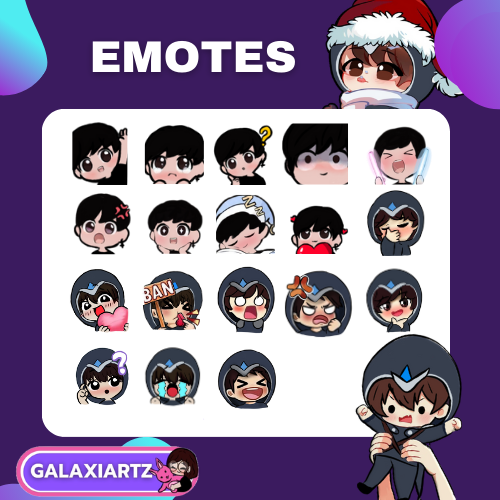
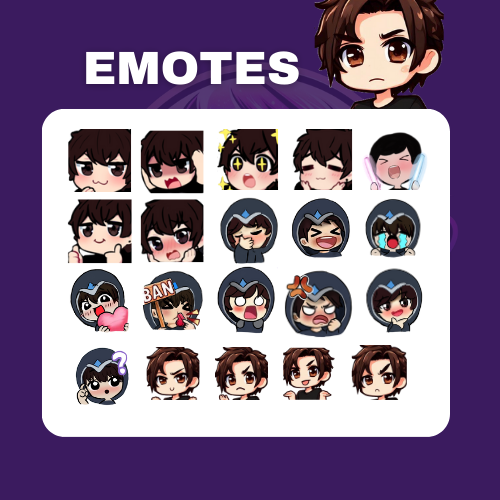
add img

diff --git a/src/componentes/Artes/index.jsx b/src/componentes/Artes/index.jsx
@@ -1,7 +1,7 @@
 import React from 'react';
 import './style.css'
 import iconeImage from '../../assets/icone.png';
-import weskerImage from '../../assets/wesker.png';
+import bagdeImage from '../../assets/bagde.png';
 import kreewhaitImage from '../../assets/kreewhait.png';
 
 export default function Artes(props) {
@@ -34,14 +34,13 @@ export default function Artes(props) {
   </section>
 
  <section className="secao-sobre-nos">
- <img src={weskerImage} alt="Emotes Wesker" />
+ <img src={bagdeImage} alt="Emotes Wesker" />
 <div className="texto-secao-sobre-nos">
-  <h2>Emotes Twitch</h2>
-  <span>Wesker</span>
+  <h2>Icones Twitch para Subs</h2>
+  <span>Bagdes</span>
   <p>
-  Emoticons baseados no personagem Wesker de Resident Evil, crio emotes que acrescentam uma dose de ação e mistério às transmissões de Luhk.
-  </p>
-  <a href="https://www.twitch.tv/luhk_" className="Twitch" target="_blank" rel="noreferrer"> Twitch</a>
+  Emoticons personalizados apenas para os subs do canal Kreewhait na Twitch. Cada badge é uma obra de arte, adicionando personalidade e diversão exclusiva às transmissões. 🌟  </p>
+  <a href="https://www.twitch.tv/kreewhait" className="Twitch" target="_blank" rel="noreferrer"> Twitch</a>
 </div>
  </section>
 </footer>
